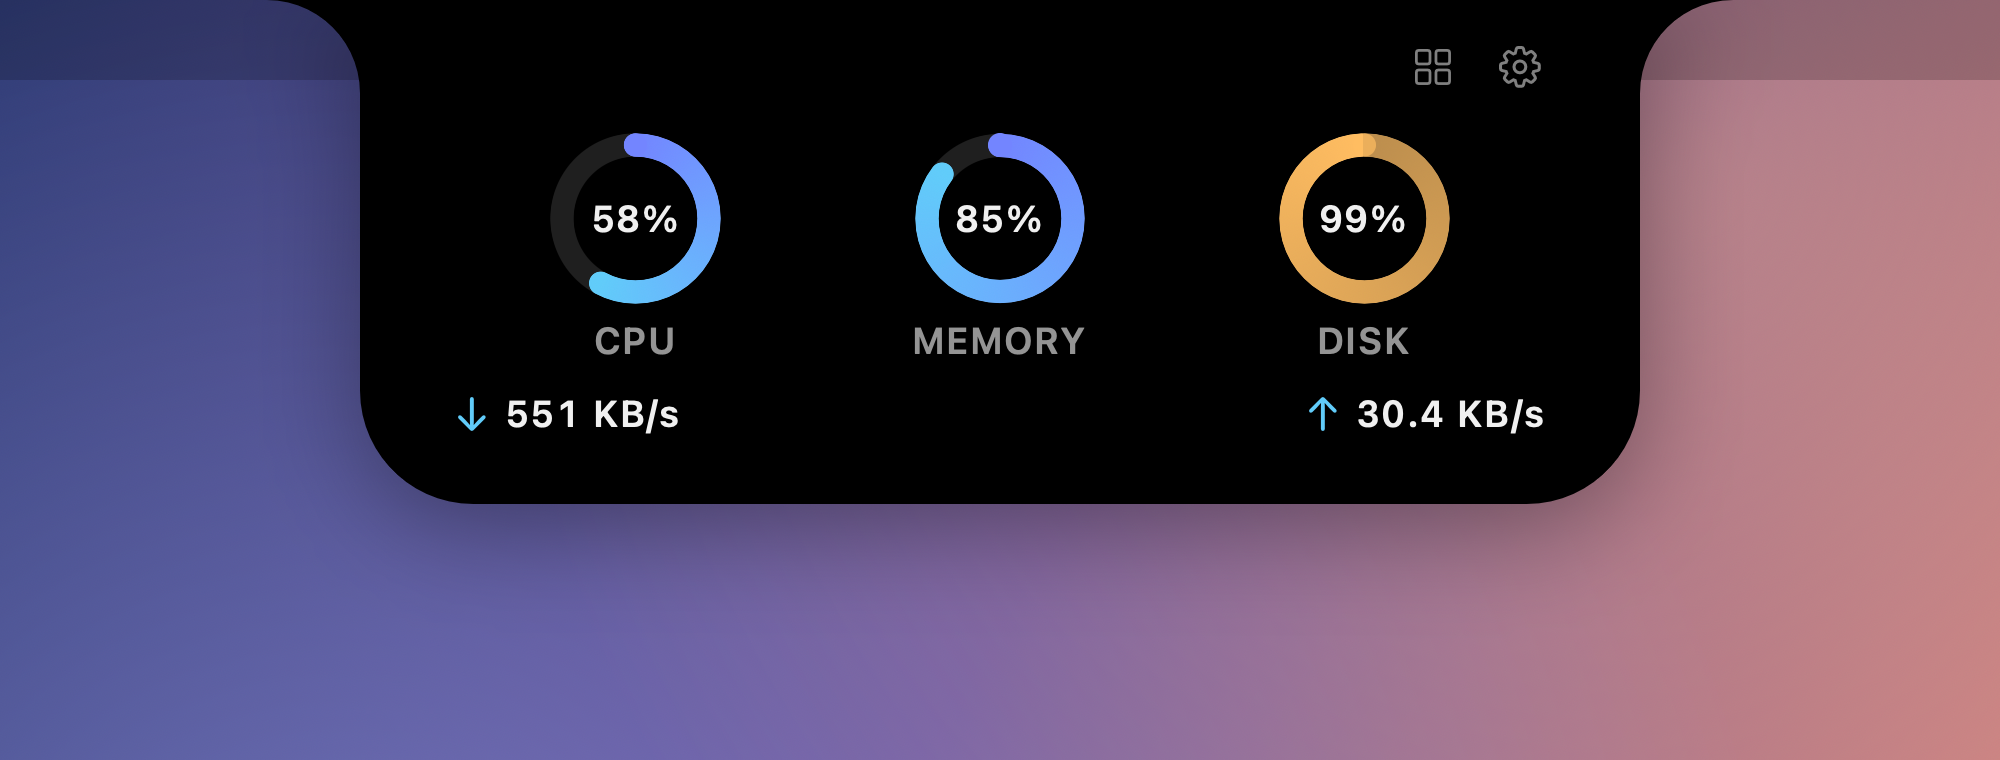
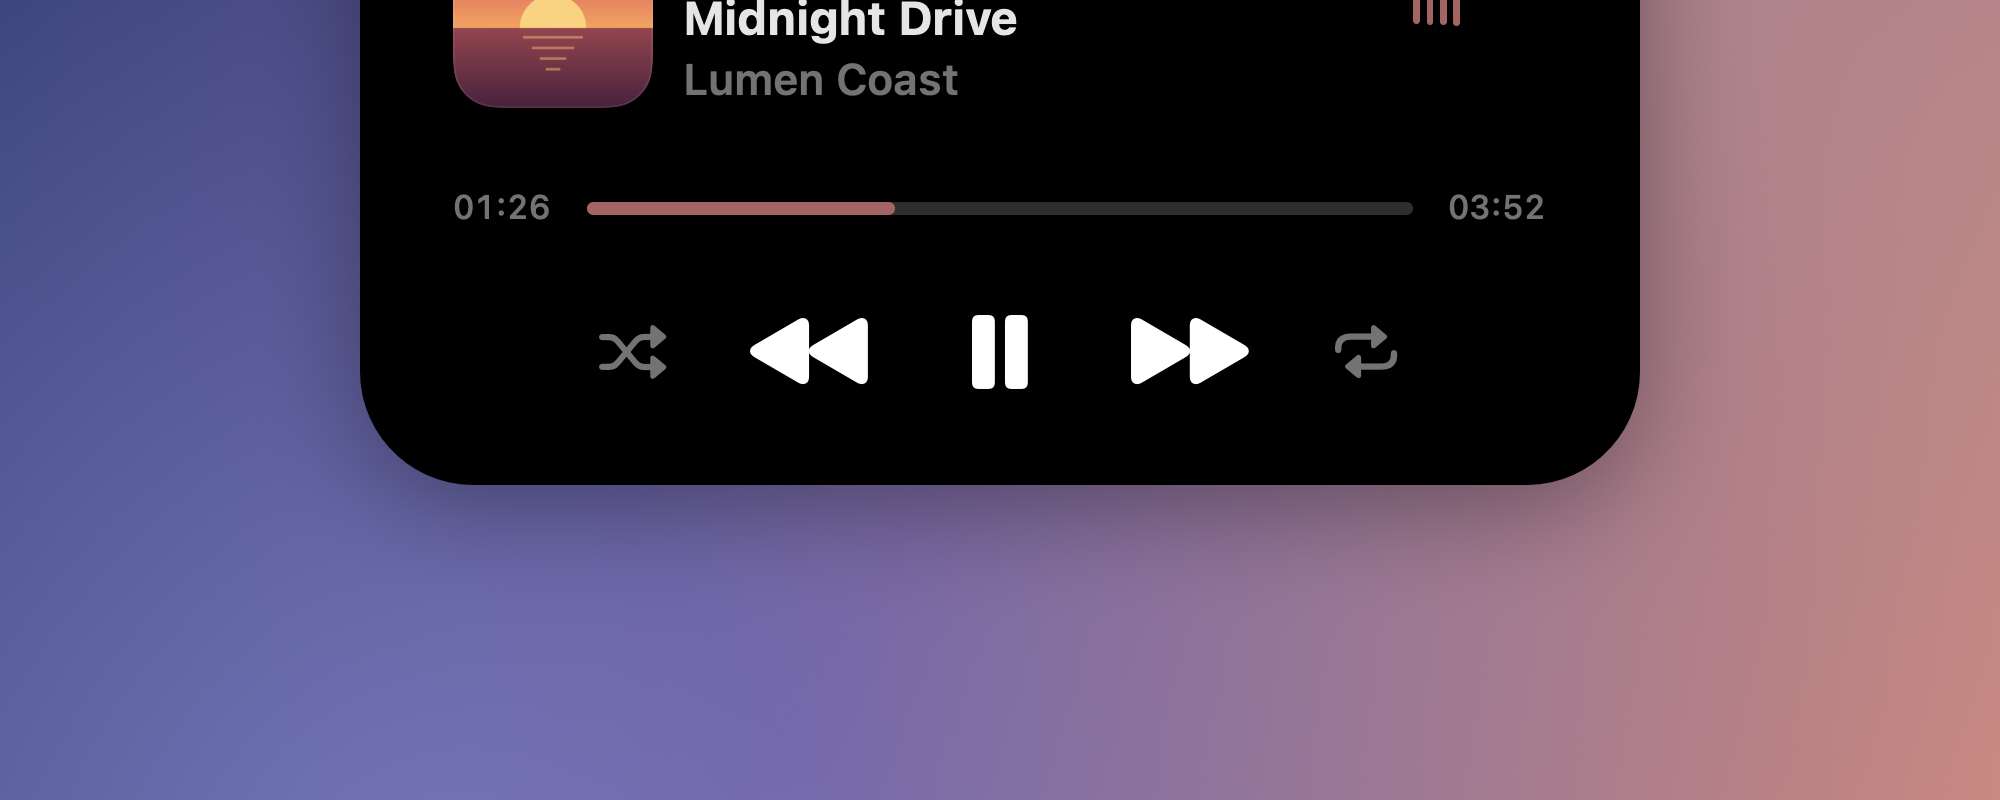
Show Music in the README

diff --git a/README.md b/README.md
@@ -10,7 +10,7 @@
 Your Mac's notch, open to extensions. Write one in React and TypeScript, and NotchNotch draws it natively around the camera, as if it came with the Mac: a timer, a build, the next meeting, whatever you need. Or install one from the [Store](https://notchnotch.github.io/store/).
 
 <p align="center">
-  <img src="assets/screenshot.png" width="800" alt="The open notch showing the System Monitor extension: rings for CPU, memory and disk, with network speeds below">
+  <img src="assets/screenshot.png" width="800" alt="The open notch playing music: album art, the song and artist, a progress bar and playback controls">
 </p>
 
 **Developer preview** for macOS 14 or later. Free and open source.
